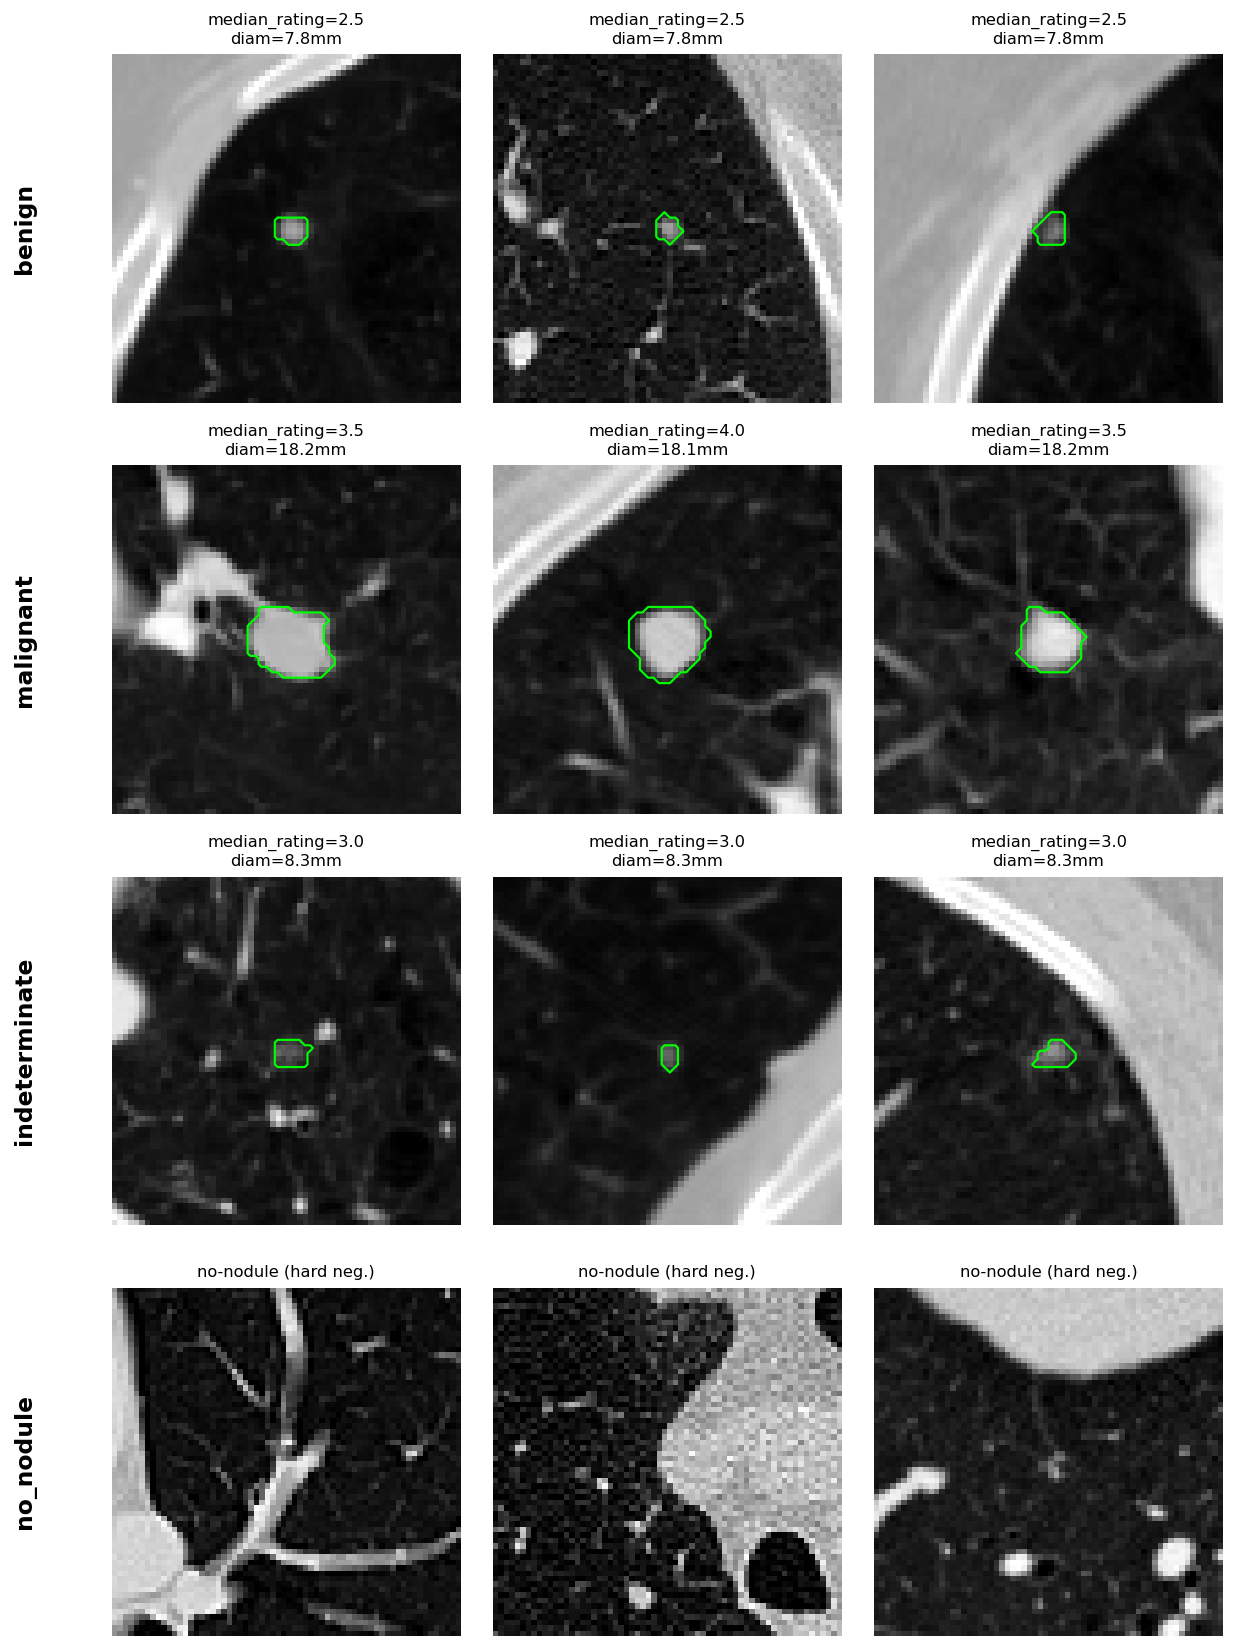
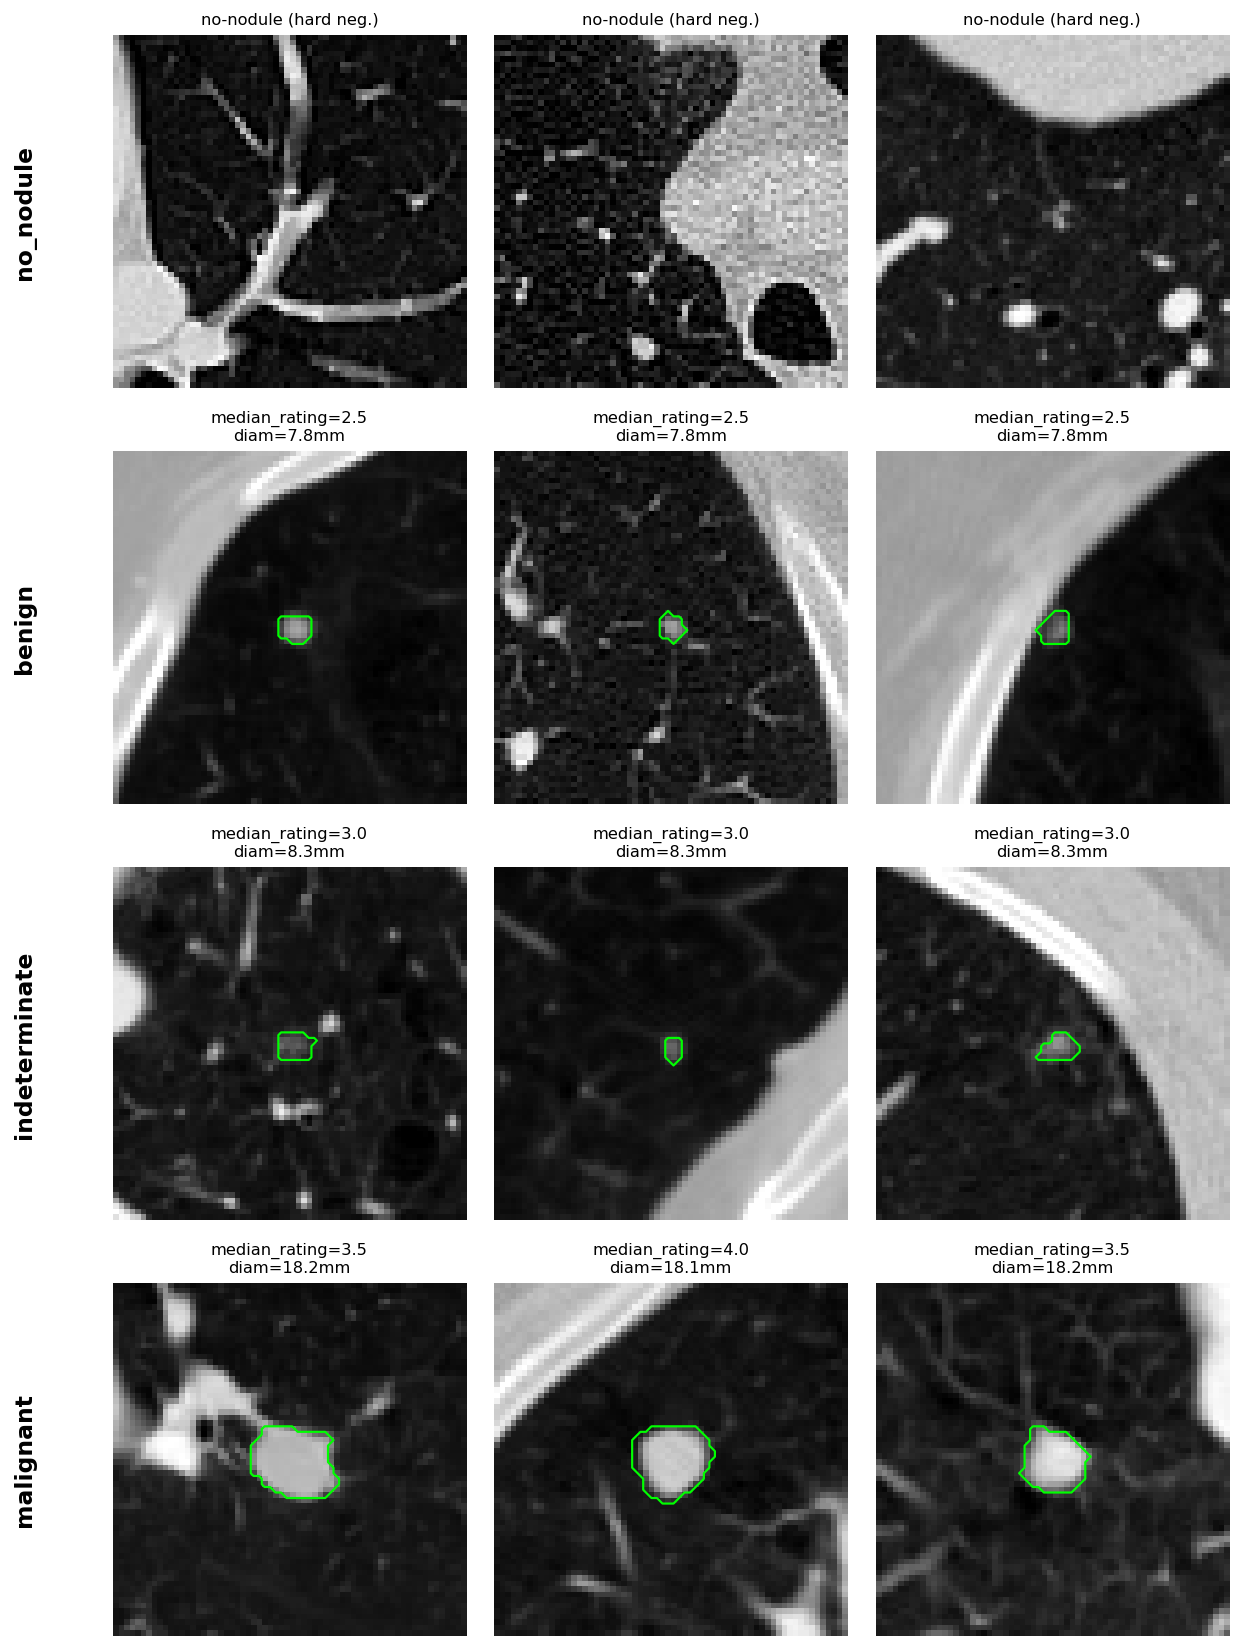
fix: order dataset_overview rows by severity (no-nodule -> benign -> indeterminate -> malignant)

diff --git a/src/stage_07c_dataset_overview.py b/src/stage_07c_dataset_overview.py
@@ -20,7 +20,7 @@ logger = logging.getLogger(__name__)
 
 _MAX_CENTER_OFFSET_PX = 6.0
 _N_PER_CLASS = 3
-_CLASS_ORDER = [(1, "benign"), (3, "malignant"), (2, "indeterminate"), (0, "no_nodule")]
+_CLASS_ORDER = [(0, "no_nodule"), (1, "benign"), (2, "indeterminate"), (3, "malignant")]
 
 
 def _mask_center_offset(mask_path: str) -> tuple[float, bool]: